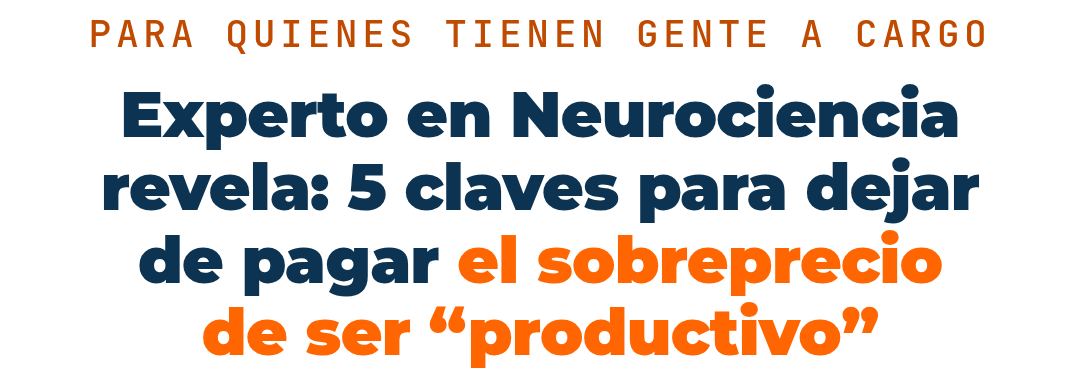
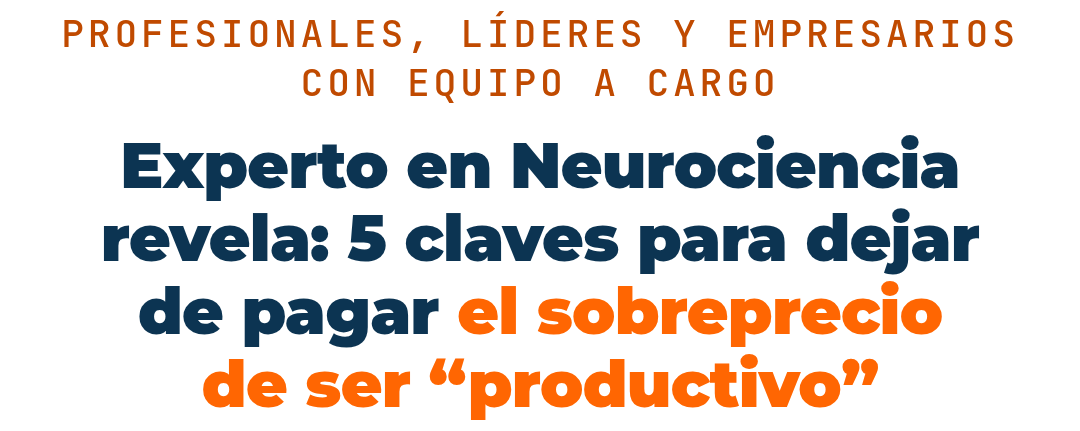
Antetitulo: "Profesionales, lideres y empresarios con equipo a cargo"
Identidad (profesionales, lideres, empresarios) mas el filtro que el video
pone en el 0:54 (sin gente a cargo, no es para vos). En los PNG va en dos
lineas, con el corte despues de "empresarios". Se regeneran los PNG, los
snippets de Vturb y las paginas con el titulo escrito. titulos.json ahora lo
escribe build_vturb_titulos.py, asi el render no se desincroniza.

Claude-Session: https://claude.ai/code/session_01NMzYr7YK3nBg6USgfxXD8F

Changed region(s): [[0.0611, 0.0289, 0.9472, 0.9842]]

diff --git a/vturb-titulos/vista-previa-titulos.html b/vturb-titulos/vista-previa-titulos.html
@@ -11,24 +11,24 @@
 @media (min-width:768px){.nfm-tit .nfm-tit__t{font-size:24px}.nfm-tit .nfm-tit__b{font-size:16px}}
 </style></head><body><div class="fila">
 <div class="cel" data-codigo="t1-sobreprecio"><div class="lbl">Título 1 · t1-sobreprecio</div><div class="nfm-tit">
-  <p class="nfm-tit__k">Para quienes tienen gente a cargo</p>
+  <p class="nfm-tit__k">Profesionales, líderes y empresarios con equipo a cargo</p>
   <h1 class="nfm-tit__t">Experto en Neurociencia revela: 5 claves para dejar de pagar <span>el sobreprecio de ser “productivo”</span></h1>
 </div><div class="vid"></div></div>
 <div class="cel" data-codigo="t2-sueno-salud-familia"><div class="lbl">Título 2 · t2-sueno-salud-familia</div><div class="nfm-tit">
-  <p class="nfm-tit__k">Para quienes tienen gente a cargo</p>
+  <p class="nfm-tit__k">Profesionales, líderes y empresarios con equipo a cargo</p>
   <h1 class="nfm-tit__t">Experto en Neurociencia revela: 5 claves para rendir más <span>sin pagarlo con tu sueño, tu salud y tu familia</span></h1>
 </div><div class="vid"></div></div>
 <div class="cel" data-codigo="t3-deja-para-el-final"><div class="lbl">Título 3 · t3-deja-para-el-final</div><div class="nfm-tit">
-  <p class="nfm-tit__k">Para quienes tienen gente a cargo</p>
+  <p class="nfm-tit__k">Profesionales, líderes y empresarios con equipo a cargo</p>
   <h1 class="nfm-tit__t">Magíster en Neurociencias te explica por qué tu cerebro le cumple a cualquiera <span>y a vos te deja para el final</span></h1>
 </div><div class="vid"></div></div>
 <div class="cel" data-codigo="t4-te-cobra-sobreprecio"><div class="lbl">Título 4 · t4-te-cobra-sobreprecio</div><div class="nfm-tit">
-  <p class="nfm-tit__k">Para quienes tienen gente a cargo</p>
+  <p class="nfm-tit__k">Profesionales, líderes y empresarios con equipo a cargo</p>
   <h1 class="nfm-tit__t">Experto en Productividad y Neurociencia revela por qué ser “productivo” <span>te está cobrando un sobreprecio</span> en tu cuerpo, tu tiempo y tu salud mental</h1>
   <p class="nfm-tit__b">Y las 5 claves para dejar de pagarlo.</p>
 </div><div class="vid"></div></div>
 <div class="cel" data-codigo="t5-sin-sumar-cansancio"><div class="lbl">Título 5 · t5-sin-sumar-cansancio</div><div class="nfm-tit">
-  <p class="nfm-tit__k">Para quienes tienen gente a cargo</p>
+  <p class="nfm-tit__k">Profesionales, líderes y empresarios con equipo a cargo</p>
   <h1 class="nfm-tit__t">Experto en Productividad y Neurociencia te explica 5 claves para <span>cumplir con todo sin sumar más cansancio</span></h1>
   <p class="nfm-tit__b">Y recuperar tu tiempo, tu descanso y tu claridad mental, sin soltar nada de lo que construiste.</p>
 </div><div class="vid"></div></div>

diff --git a/instituto-vsl-ab-titulos.html b/instituto-vsl-ab-titulos.html
@@ -434,11 +434,11 @@ html:not([data-titulo="2"]) .nfm-tit[data-variante="2"]{display:none}
 <section class="hero">
   <div class="wrap center">
     <div class="nfm-tit" data-variante="1">
-      <p class="nfm-tit__k">Para quienes tienen gente a cargo</p>
+      <p class="nfm-tit__k">Profesionales, líderes y empresarios con equipo a cargo</p>
       <h1 class="nfm-tit__t">Experto en Neurociencia revela: 5 claves para dejar de pagar <span>el sobreprecio de ser “productivo”</span></h1>
     </div>
     <div class="nfm-tit" data-variante="2">
-      <p class="nfm-tit__k">Para quienes tienen gente a cargo</p>
+      <p class="nfm-tit__k">Profesionales, líderes y empresarios con equipo a cargo</p>
       <h1 class="nfm-tit__t">Experto en Neurociencia revela: 5 claves para rendir más <span>sin pagarlo con tu sueño, tu salud y tu familia</span></h1>
     </div>
 

diff --git a/.claude/render_titulos_png.js b/.claude/render_titulos_png.js
@@ -27,7 +27,7 @@ const FORMATOS = {
       await p.setContent(`<!doctype html><html><head><meta charset="utf-8"><style>${FACE}
         html,body{margin:0;background:transparent}
         .tit{box-sizing:border-box;width:${m.w}px;padding:${m.pad}px ${m.pad * 2}px ${m.pad}px;text-align:center;color:#0c3452}
-        .k{font:500 ${m.k}px/1.2 J,monospace;letter-spacing:.12em;text-transform:uppercase;color:#c04a00;margin:0 0 ${Math.round(m.k * .55)}px}
+        .k{font:500 ${m.k}px/1.3 J,monospace;letter-spacing:.1em;text-transform:uppercase;color:#c04a00;margin:0 0 ${Math.round(m.k * .55)}px}
         .t{font:900 ${m.t}px/1.14 M,sans-serif;letter-spacing:-.012em;margin:0;text-wrap:balance}
         .t span{color:#ff6602}
         .b{font:400 ${m.b}px/1.4 O,sans-serif;color:#33536b;margin:${Math.round(m.b * .45)}px auto 0;max-width:30em;text-wrap:balance}

diff --git a/instituto-vsl-titulo-2-escalera.html b/instituto-vsl-titulo-2-escalera.html
@@ -417,7 +417,7 @@ section,.trust,footer.foot{position:relative;z-index:2}
 <section class="hero">
   <div class="wrap center">
     <div class="nfm-tit">
-      <p class="nfm-tit__k">Para quienes tienen gente a cargo</p>
+      <p class="nfm-tit__k">Profesionales, líderes y empresarios con equipo a cargo</p>
       <h1 class="nfm-tit__t">Experto en Neurociencia revela: 5 claves para rendir más <span>sin pagarlo con tu sueño, tu salud y tu familia</span></h1>
     </div>
 

diff --git a/instituto-vsl-titulo-2.html b/instituto-vsl-titulo-2.html
@@ -417,7 +417,7 @@ section,.trust,footer.foot{position:relative;z-index:2}
 <section class="hero">
   <div class="wrap center">
     <div class="nfm-tit">
-      <p class="nfm-tit__k">Para quienes tienen gente a cargo</p>
+      <p class="nfm-tit__k">Profesionales, líderes y empresarios con equipo a cargo</p>
       <h1 class="nfm-tit__t">Experto en Neurociencia revela: 5 claves para rendir más <span>sin pagarlo con tu sueño, tu salud y tu familia</span></h1>
     </div>
 

diff --git a/instituto-vsl-titulo-1.html b/instituto-vsl-titulo-1.html
@@ -417,7 +417,7 @@ section,.trust,footer.foot{position:relative;z-index:2}
 <section class="hero">
   <div class="wrap center">
     <div class="nfm-tit">
-      <p class="nfm-tit__k">Para quienes tienen gente a cargo</p>
+      <p class="nfm-tit__k">Profesionales, líderes y empresarios con equipo a cargo</p>
       <h1 class="nfm-tit__t">Experto en Neurociencia revela: 5 claves para dejar de pagar <span>el sobreprecio de ser “productivo”</span></h1>
     </div>
 

diff --git a/.claude/build_vturb_titulos.py b/.claude/build_vturb_titulos.py
@@ -18,7 +18,9 @@ CSS = """@import url('%s');
 @media (max-width:400px){.nfm-tit .nfm-tit__t{font-size:18px}.nfm-tit .nfm-tit__k{letter-spacing:.1em}}
 @media (min-width:768px){.nfm-tit .nfm-tit__t{font-size:24px}.nfm-tit .nfm-tit__b{font-size:16px}}""" % FUENTES
 
-ANTE = "Para quienes tienen gente a cargo"
+# Identidad (profesionales, lideres, empresarios) + el filtro del video (0:54: sin gente a cargo, no es para vos)
+ANTE = "Profesionales, líderes y empresarios con equipo a cargo"
+ANTE_PNG = "Profesionales, líderes y empresarios<br>con equipo a cargo"   # en la imagen, corte en dos lineas
 TITULOS = [
     ("t1-sobreprecio",
      "Experto en Neurociencia revela: 5 claves para dejar de pagar <span>el sobreprecio de ser “productivo”</span>", None),
@@ -97,4 +99,7 @@ if __name__ == "__main__":
                 '<img src="PEGAR-LINK" alt="%s" style="display:block;width:100%%;max-width:560px;height:auto;margin:0 auto">' % alt,
                 "", "----- JS -----", js(codigo), "", ""]
     io.open(os.path.join(BASE, "vturb-titulos-png.txt"), "w", encoding="utf-8").write("\n".join(txt))
+    import json as _json
+    io.open(os.path.join(os.path.dirname(os.path.abspath(__file__)), "titulos.json"), "w", encoding="utf-8").write(_json.dumps(
+        {"ante": ANTE_PNG, "titulos": [{"codigo": c, "titulo": t, "bajada": bj} for c, t, bj in TITULOS]}, ensure_ascii=False, indent=1))
     print("ok · %d titulos" % len(TITULOS))
